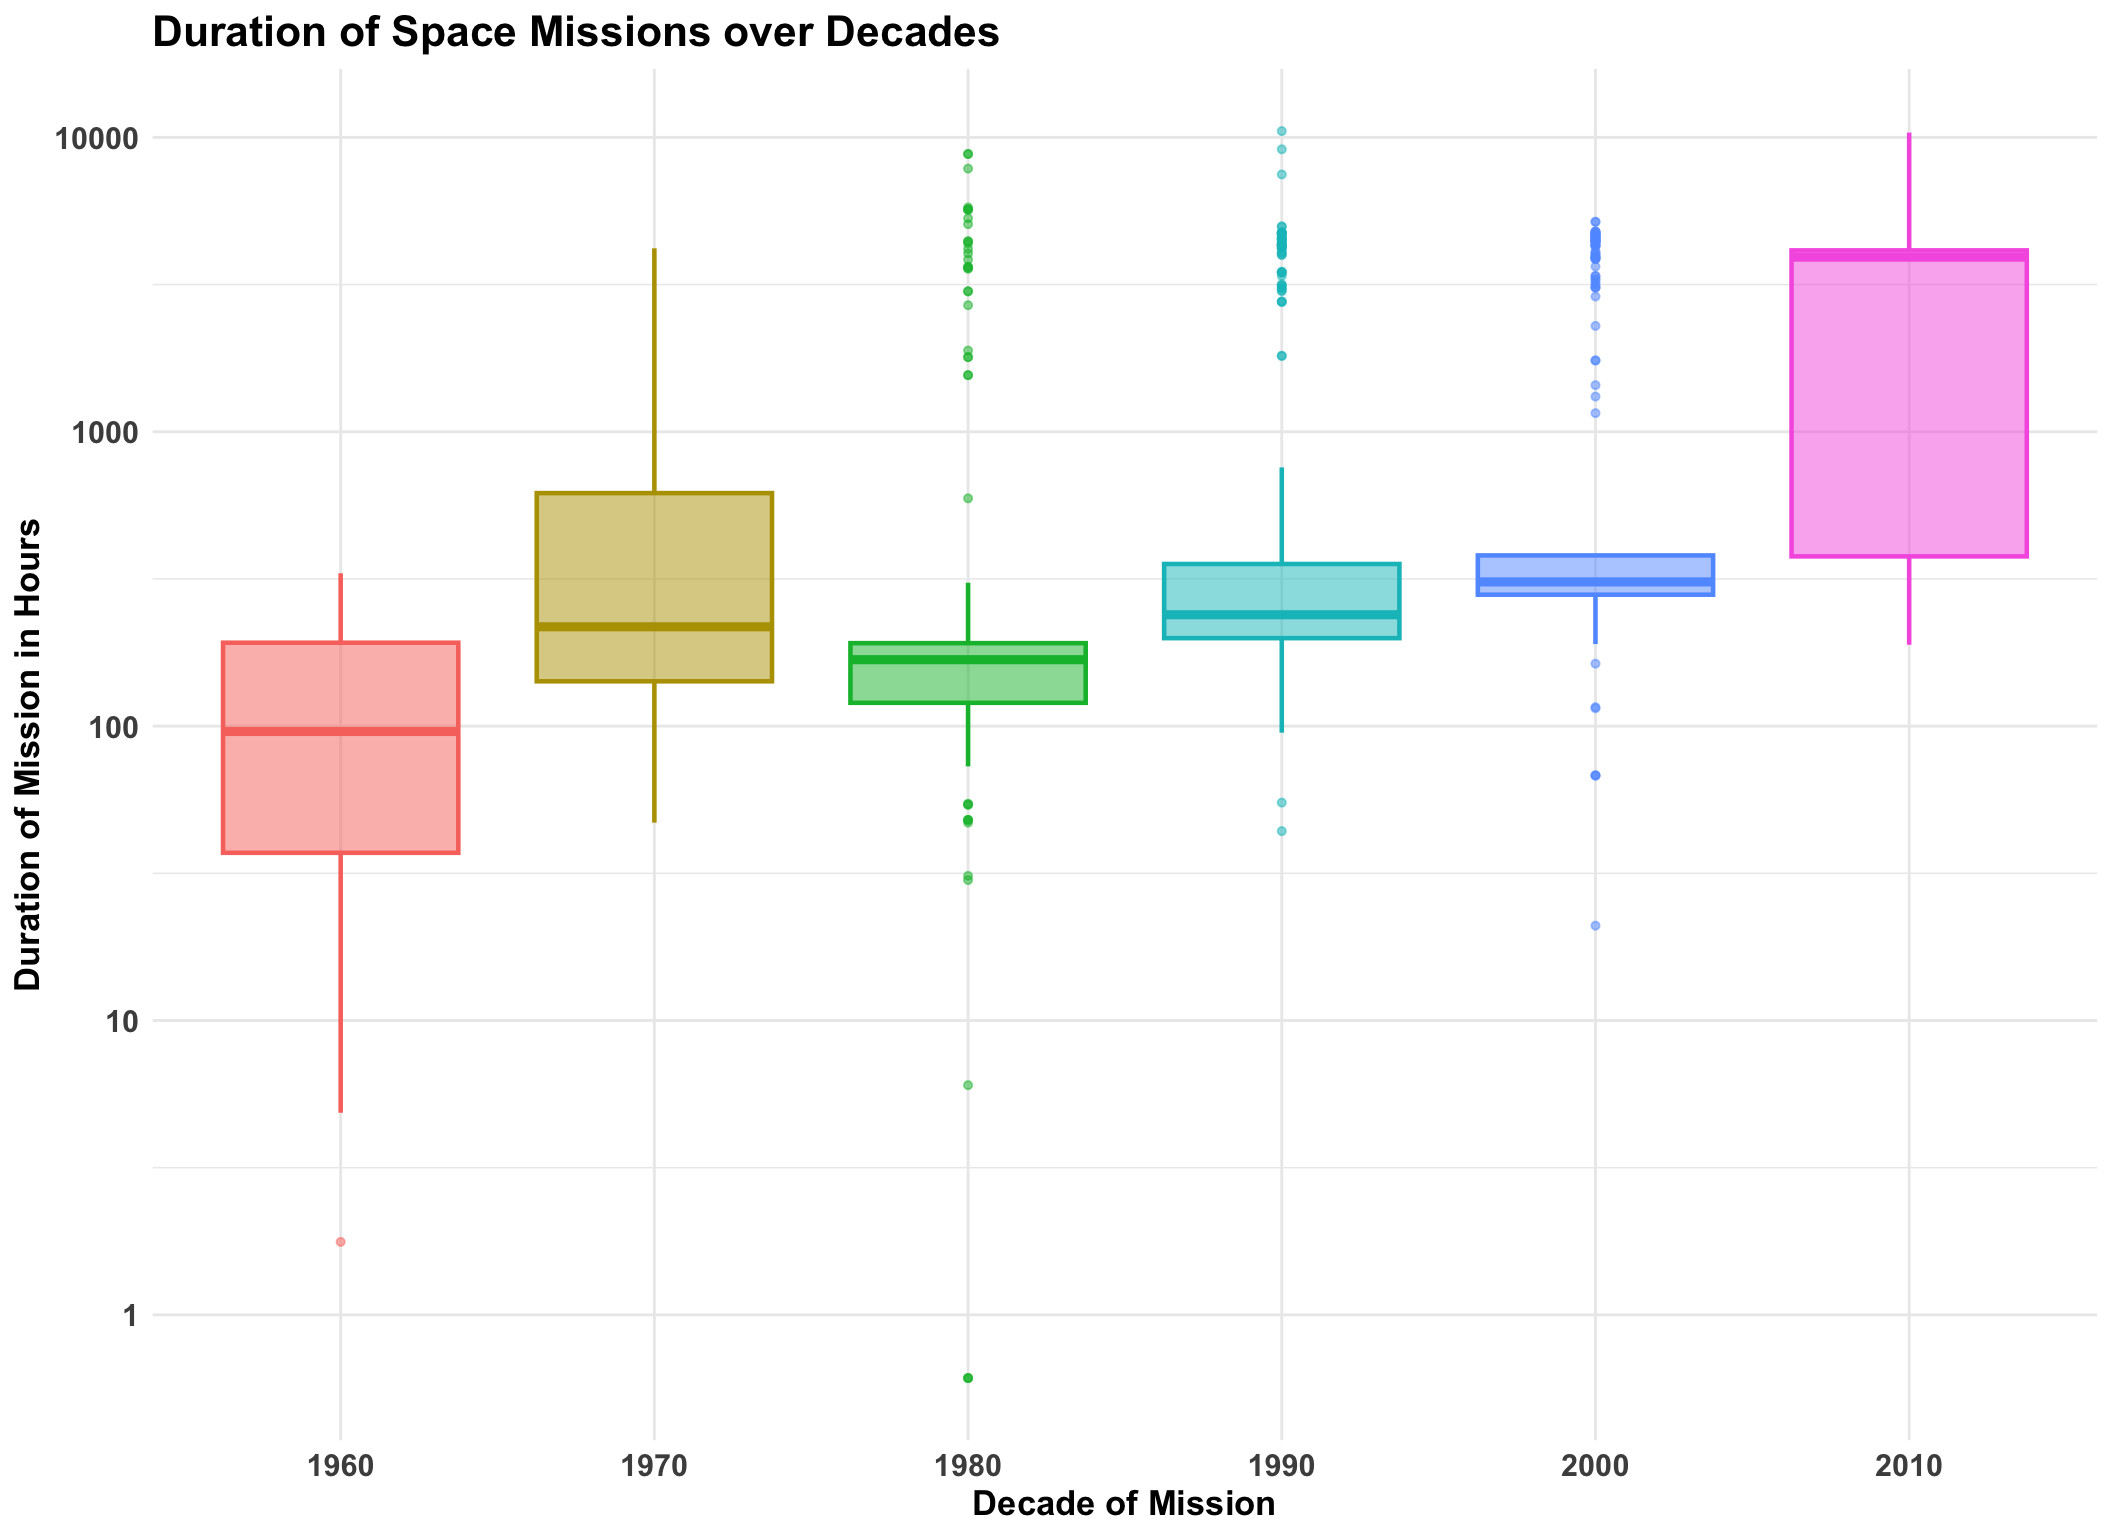
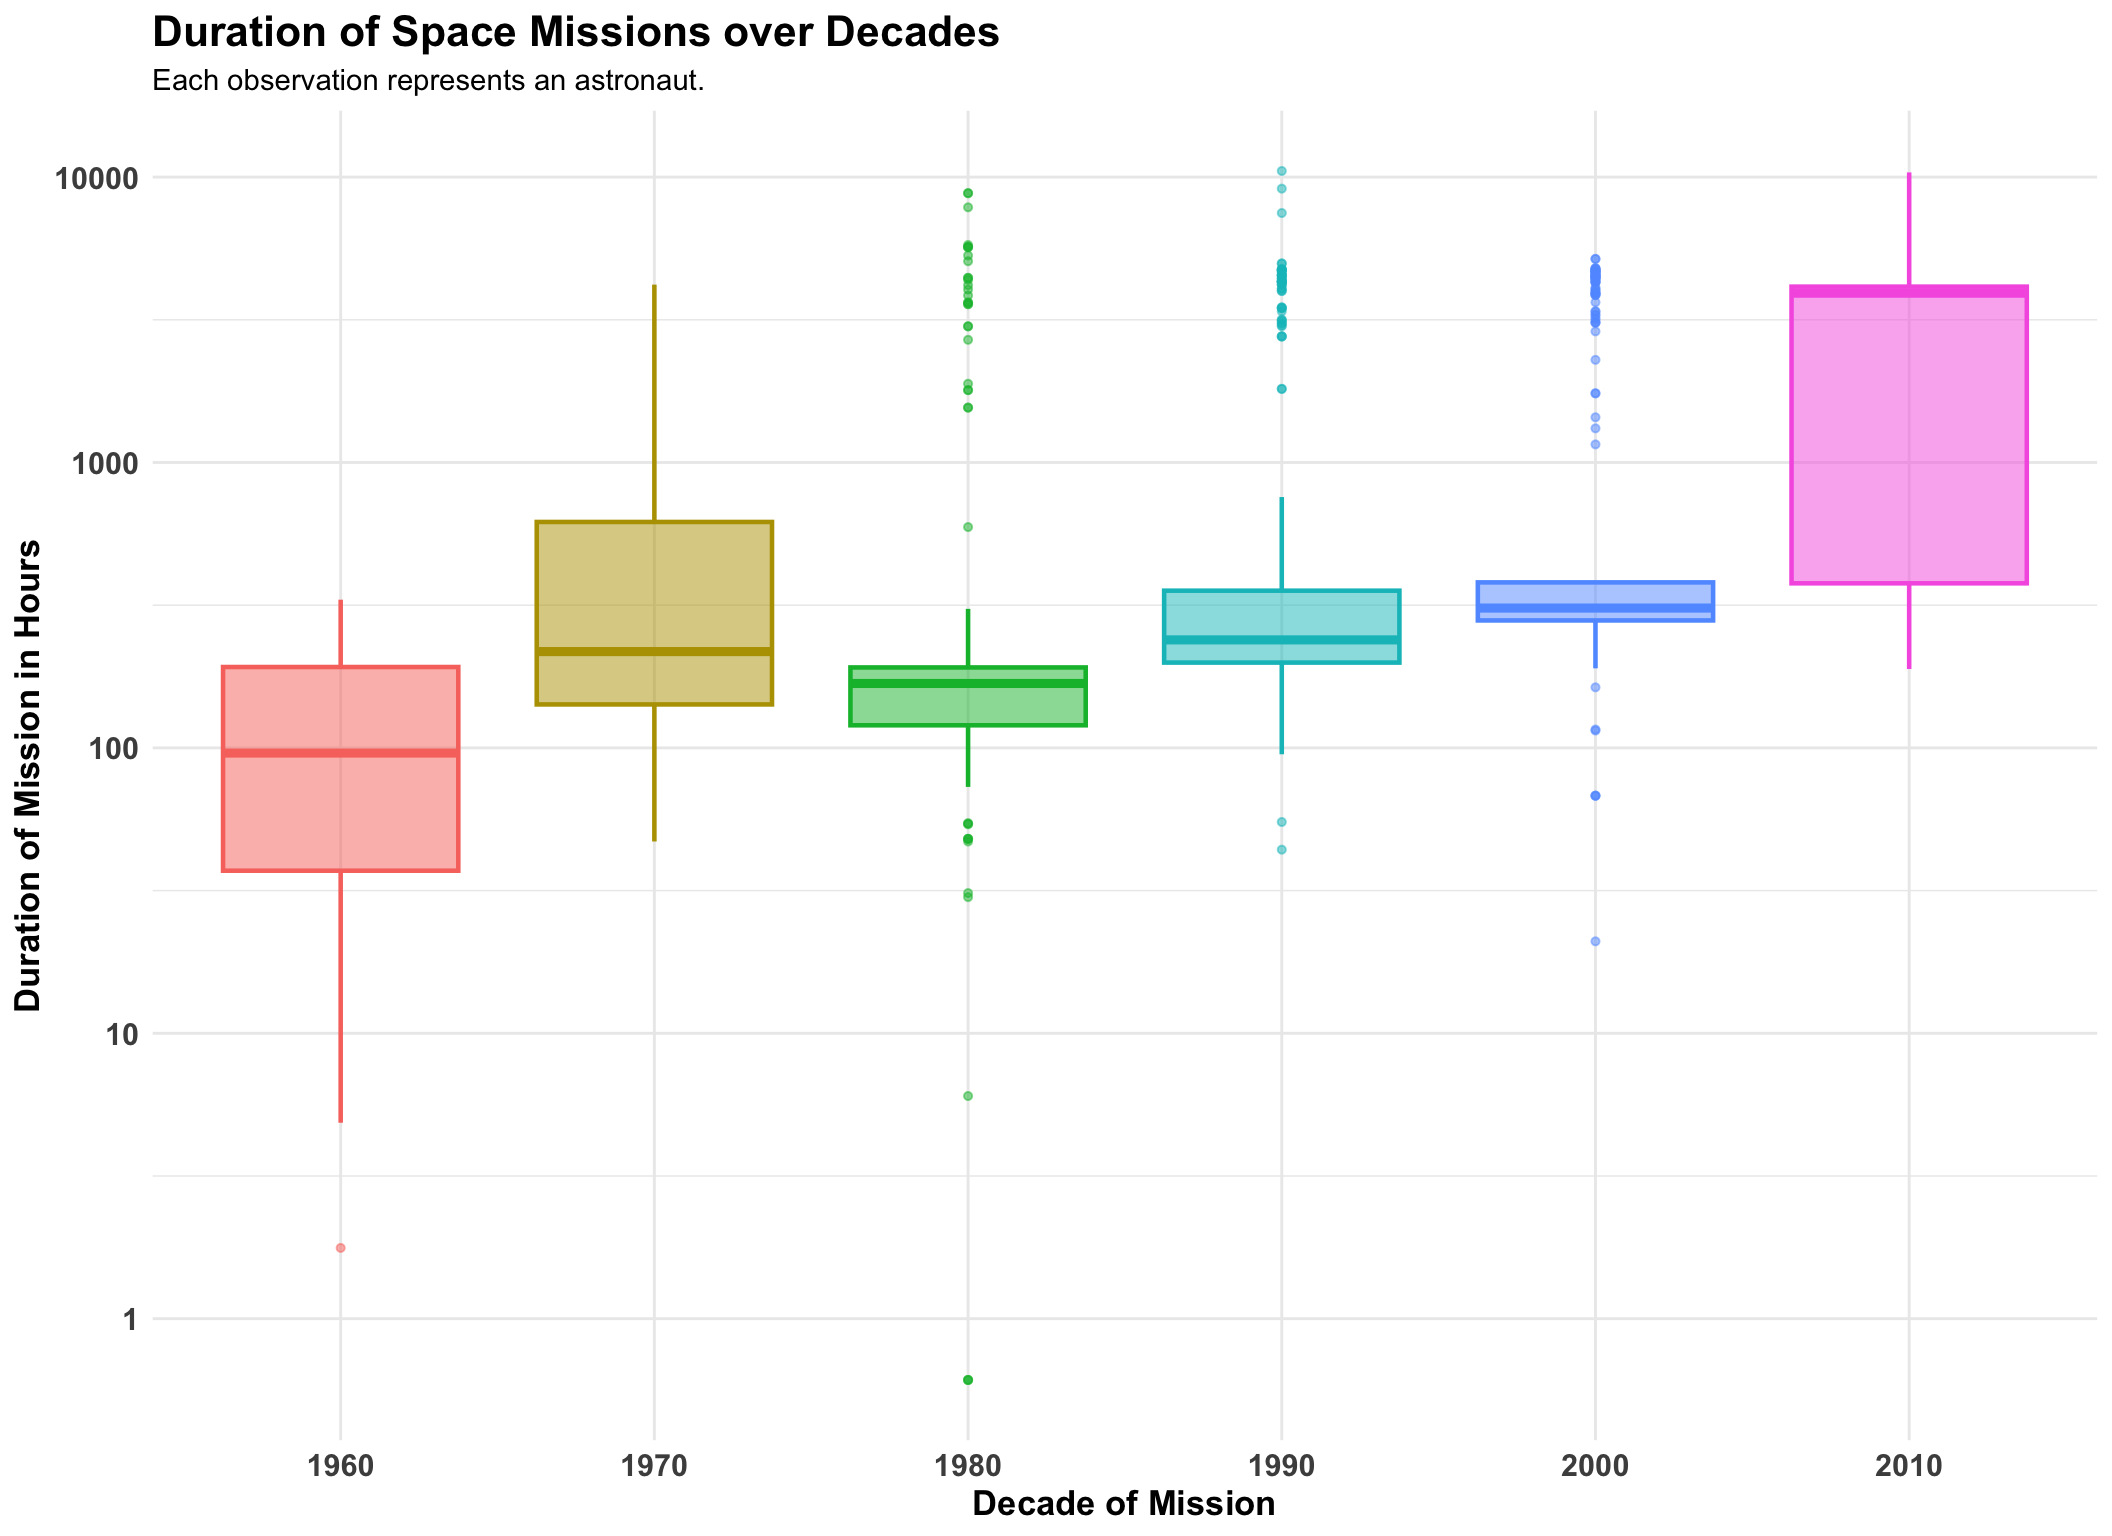
analysis commit

diff --git a/docs/astronauts.html b/docs/astronauts.html
@@ -221,17 +221,18 @@ pre > code.sourceCode > span > a:first-child::before { text-decoration: underlin
 <span id="cb1-13"><a href="#cb1-13" aria-hidden="true" tabindex="-1"></a>    <span class="fu">labs</span>(</span>
 <span id="cb1-14"><a href="#cb1-14" aria-hidden="true" tabindex="-1"></a>        <span class="at">x =</span> <span class="st">"Decade of Mission"</span>,</span>
 <span id="cb1-15"><a href="#cb1-15" aria-hidden="true" tabindex="-1"></a>        <span class="at">y =</span> <span class="st">"Duration of Mission in Hours"</span>,</span>
-<span id="cb1-16"><a href="#cb1-16" aria-hidden="true" tabindex="-1"></a>        <span class="at">title =</span> <span class="st">"Duration of Space Missions over Decades"</span></span>
-<span id="cb1-17"><a href="#cb1-17" aria-hidden="true" tabindex="-1"></a>    ) <span class="sc">+</span></span>
-<span id="cb1-18"><a href="#cb1-18" aria-hidden="true" tabindex="-1"></a>    <span class="fu">theme_minimal</span>() <span class="sc">+</span></span>
-<span id="cb1-19"><a href="#cb1-19" aria-hidden="true" tabindex="-1"></a>    <span class="fu">theme</span>(</span>
-<span id="cb1-20"><a href="#cb1-20" aria-hidden="true" tabindex="-1"></a>        <span class="at">plot.title =</span> <span class="fu">element_text</span>(<span class="at">face =</span> <span class="st">"bold"</span>, <span class="at">size =</span> <span class="dv">16</span>), </span>
-<span id="cb1-21"><a href="#cb1-21" aria-hidden="true" tabindex="-1"></a>        <span class="at">axis.title =</span> <span class="fu">element_text</span>(<span class="at">face =</span> <span class="st">"bold"</span>, <span class="at">size =</span> <span class="dv">13</span>),</span>
-<span id="cb1-22"><a href="#cb1-22" aria-hidden="true" tabindex="-1"></a>        <span class="at">axis.text.x =</span> <span class="fu">element_text</span>(<span class="at">face =</span> <span class="st">"bold"</span>, <span class="at">size =</span> <span class="fl">11.5</span>),</span>
-<span id="cb1-23"><a href="#cb1-23" aria-hidden="true" tabindex="-1"></a>        <span class="at">axis.text.y =</span> <span class="fu">element_text</span>(<span class="at">face =</span> <span class="st">"bold"</span>, <span class="at">size =</span> <span class="fl">11.5</span>)</span>
-<span id="cb1-24"><a href="#cb1-24" aria-hidden="true" tabindex="-1"></a>    )</span>
-<span id="cb1-25"><a href="#cb1-25" aria-hidden="true" tabindex="-1"></a></span>
-<span id="cb1-26"><a href="#cb1-26" aria-hidden="true" tabindex="-1"></a>dec_boxplots</span></code></pre></div><button title="Copy to Clipboard" class="code-copy-button"><i class="bi"></i></button></div>
+<span id="cb1-16"><a href="#cb1-16" aria-hidden="true" tabindex="-1"></a>        <span class="at">title =</span> <span class="st">"Duration of Space Missions over Decades"</span>,</span>
+<span id="cb1-17"><a href="#cb1-17" aria-hidden="true" tabindex="-1"></a>        <span class="at">subtitle =</span> <span class="st">"Each observation represents an astronaut."</span></span>
+<span id="cb1-18"><a href="#cb1-18" aria-hidden="true" tabindex="-1"></a>    ) <span class="sc">+</span></span>
+<span id="cb1-19"><a href="#cb1-19" aria-hidden="true" tabindex="-1"></a>    <span class="fu">theme_minimal</span>() <span class="sc">+</span></span>
+<span id="cb1-20"><a href="#cb1-20" aria-hidden="true" tabindex="-1"></a>    <span class="fu">theme</span>(</span>
+<span id="cb1-21"><a href="#cb1-21" aria-hidden="true" tabindex="-1"></a>        <span class="at">plot.title =</span> <span class="fu">element_text</span>(<span class="at">face =</span> <span class="st">"bold"</span>, <span class="at">size =</span> <span class="dv">16</span>), </span>
+<span id="cb1-22"><a href="#cb1-22" aria-hidden="true" tabindex="-1"></a>        <span class="at">axis.title =</span> <span class="fu">element_text</span>(<span class="at">face =</span> <span class="st">"bold"</span>, <span class="at">size =</span> <span class="dv">13</span>),</span>
+<span id="cb1-23"><a href="#cb1-23" aria-hidden="true" tabindex="-1"></a>        <span class="at">axis.text.x =</span> <span class="fu">element_text</span>(<span class="at">face =</span> <span class="st">"bold"</span>, <span class="at">size =</span> <span class="fl">11.5</span>),</span>
+<span id="cb1-24"><a href="#cb1-24" aria-hidden="true" tabindex="-1"></a>        <span class="at">axis.text.y =</span> <span class="fu">element_text</span>(<span class="at">face =</span> <span class="st">"bold"</span>, <span class="at">size =</span> <span class="fl">11.5</span>)</span>
+<span id="cb1-25"><a href="#cb1-25" aria-hidden="true" tabindex="-1"></a>    )</span>
+<span id="cb1-26"><a href="#cb1-26" aria-hidden="true" tabindex="-1"></a></span>
+<span id="cb1-27"><a href="#cb1-27" aria-hidden="true" tabindex="-1"></a>dec_boxplots</span></code></pre></div><button title="Copy to Clipboard" class="code-copy-button"><i class="bi"></i></button></div>
 </details>
 <div class="cell-output-display">
 <div>
@@ -251,18 +252,19 @@ pre > code.sourceCode > span > a:first-child::before { text-decoration: underlin
 <span id="cb2-7"><a href="#cb2-7" aria-hidden="true" tabindex="-1"></a>        <span class="at">x =</span> <span class="st">"Decade of Mission"</span>,</span>
 <span id="cb2-8"><a href="#cb2-8" aria-hidden="true" tabindex="-1"></a>        <span class="at">y =</span> <span class="st">"Duration of Mission in Hours"</span>,</span>
 <span id="cb2-9"><a href="#cb2-9" aria-hidden="true" tabindex="-1"></a>        <span class="at">title =</span> <span class="st">"U.S. vs. U.S.S.R./Russia: Space Mission Duration Over Time"</span>,</span>
-<span id="cb2-10"><a href="#cb2-10" aria-hidden="true" tabindex="-1"></a>        <span class="at">color =</span> <span class="st">"Country"</span>,</span>
-<span id="cb2-11"><a href="#cb2-11" aria-hidden="true" tabindex="-1"></a>        <span class="at">fill =</span> <span class="st">"Country"</span></span>
-<span id="cb2-12"><a href="#cb2-12" aria-hidden="true" tabindex="-1"></a>    ) <span class="sc">+</span></span>
-<span id="cb2-13"><a href="#cb2-13" aria-hidden="true" tabindex="-1"></a>    <span class="fu">theme_light</span>() <span class="sc">+</span></span>
-<span id="cb2-14"><a href="#cb2-14" aria-hidden="true" tabindex="-1"></a>    <span class="fu">theme</span>(</span>
-<span id="cb2-15"><a href="#cb2-15" aria-hidden="true" tabindex="-1"></a>        <span class="at">plot.title =</span> <span class="fu">element_text</span>(<span class="at">face =</span> <span class="st">"bold"</span>, <span class="at">size =</span> <span class="dv">16</span>), </span>
-<span id="cb2-16"><a href="#cb2-16" aria-hidden="true" tabindex="-1"></a>        <span class="at">axis.title =</span> <span class="fu">element_text</span>(<span class="at">face =</span> <span class="st">"bold"</span>, <span class="at">size =</span> <span class="dv">13</span>),</span>
-<span id="cb2-17"><a href="#cb2-17" aria-hidden="true" tabindex="-1"></a>        <span class="at">axis.text.x =</span> <span class="fu">element_text</span>(<span class="at">face =</span> <span class="st">"bold"</span>, <span class="at">size =</span> <span class="fl">11.5</span>),</span>
-<span id="cb2-18"><a href="#cb2-18" aria-hidden="true" tabindex="-1"></a>        <span class="at">axis.text.y =</span> <span class="fu">element_text</span>(<span class="at">face =</span> <span class="st">"bold"</span>, <span class="at">size =</span> <span class="fl">11.5</span>)</span>
-<span id="cb2-19"><a href="#cb2-19" aria-hidden="true" tabindex="-1"></a>    )</span>
-<span id="cb2-20"><a href="#cb2-20" aria-hidden="true" tabindex="-1"></a></span>
-<span id="cb2-21"><a href="#cb2-21" aria-hidden="true" tabindex="-1"></a>country_boxplots</span></code></pre></div><button title="Copy to Clipboard" class="code-copy-button"><i class="bi"></i></button></div>
+<span id="cb2-10"><a href="#cb2-10" aria-hidden="true" tabindex="-1"></a>        <span class="at">subtitle =</span> <span class="st">"Each observation represents an astronaut."</span>,</span>
+<span id="cb2-11"><a href="#cb2-11" aria-hidden="true" tabindex="-1"></a>        <span class="at">color =</span> <span class="st">"Country"</span>,</span>
+<span id="cb2-12"><a href="#cb2-12" aria-hidden="true" tabindex="-1"></a>        <span class="at">fill =</span> <span class="st">"Country"</span></span>
+<span id="cb2-13"><a href="#cb2-13" aria-hidden="true" tabindex="-1"></a>    ) <span class="sc">+</span></span>
+<span id="cb2-14"><a href="#cb2-14" aria-hidden="true" tabindex="-1"></a>    <span class="fu">theme_light</span>() <span class="sc">+</span></span>
+<span id="cb2-15"><a href="#cb2-15" aria-hidden="true" tabindex="-1"></a>    <span class="fu">theme</span>(</span>
+<span id="cb2-16"><a href="#cb2-16" aria-hidden="true" tabindex="-1"></a>        <span class="at">plot.title =</span> <span class="fu">element_text</span>(<span class="at">face =</span> <span class="st">"bold"</span>, <span class="at">size =</span> <span class="dv">16</span>), </span>
+<span id="cb2-17"><a href="#cb2-17" aria-hidden="true" tabindex="-1"></a>        <span class="at">axis.title =</span> <span class="fu">element_text</span>(<span class="at">face =</span> <span class="st">"bold"</span>, <span class="at">size =</span> <span class="dv">13</span>),</span>
+<span id="cb2-18"><a href="#cb2-18" aria-hidden="true" tabindex="-1"></a>        <span class="at">axis.text.x =</span> <span class="fu">element_text</span>(<span class="at">face =</span> <span class="st">"bold"</span>, <span class="at">size =</span> <span class="fl">11.5</span>),</span>
+<span id="cb2-19"><a href="#cb2-19" aria-hidden="true" tabindex="-1"></a>        <span class="at">axis.text.y =</span> <span class="fu">element_text</span>(<span class="at">face =</span> <span class="st">"bold"</span>, <span class="at">size =</span> <span class="fl">11.5</span>)</span>
+<span id="cb2-20"><a href="#cb2-20" aria-hidden="true" tabindex="-1"></a>    )</span>
+<span id="cb2-21"><a href="#cb2-21" aria-hidden="true" tabindex="-1"></a></span>
+<span id="cb2-22"><a href="#cb2-22" aria-hidden="true" tabindex="-1"></a>country_boxplots</span></code></pre></div><button title="Copy to Clipboard" class="code-copy-button"><i class="bi"></i></button></div>
 </details>
 <div class="cell-output-display">
 <div>
@@ -272,6 +274,7 @@ pre > code.sourceCode > span > a:first-child::before { text-decoration: underlin
 </div>
 </div>
 </div>
+<p>From the visuals above, we observe that the median amount of time spent in space by astronauts during a mission increased overall from the 1960s to the 2010s, with the longest mission being completed in the 1990s by a Russian astronaut. Moreover, based on the boxplots comparing U.S. and U.S.S.R./Russia mission durations, we observe that from the 1980s to the 2000s, U.S.S.R./Russian astronauts had a higher median mission duration than U.S. astronauts.</p>
 </section>
 <section id="data-source" class="level2">
 <h2 class="anchored" data-anchor-id="data-source">Data Source</h2>

diff --git a/docs/pellgrant.html b/docs/pellgrant.html
@@ -143,11 +143,11 @@ pre > code.sourceCode > span > a:first-child::before { text-decoration: underlin
     <ul class="dropdown-menu" aria-labelledby="nav-menu-data-viz">    
         <li>
     <a class="dropdown-item" href="./pellgrant.html">
- <span class="dropdown-text">Pell Grant Data</span></a>
+ <span class="dropdown-text">Pell Grant</span></a>
   </li>  
         <li>
     <a class="dropdown-item" href="./astronauts.html">
- <span class="dropdown-text">Space Mission Time Data</span></a>
+ <span class="dropdown-text">Space Mission Time</span></a>
   </li>  
     </ul>
   </li>
@@ -260,6 +260,7 @@ pre > code.sourceCode > span > a:first-child::before { text-decoration: underlin
 </div>
 </div>
 </div>
+<p>From the visualization above, we observe that Claremont McKenna College, Scripps College, and Harvey Mudd College maintained a low and relatively constant number of Pell Grant recipients. In contrast, the number of Pell Grant recipients at Amherst College, Middlebury College, Pomona College, and Williams College increased gradually over time. Additionally, while the other selected liberal arts colleges had either relatively constant or increasing numbers of Pell Grant recipients from 1990 to 2017, Pitzer College experienced a decrease in the number of Pell Grant recipients from 1990 to 2017.</p>
 </section>
 <section id="data-source" class="level2">
 <h2 class="anchored" data-anchor-id="data-source">Data Source</h2>
